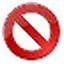
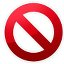
Fixed up images a little.
Moved map layout to the side.

diff --git a/src/main/webapp/templates-hidden/default.html b/src/main/webapp/templates-hidden/default.html
@@ -49,57 +49,13 @@
         background-color: #eee;
         }
 
-        .imgframe {  /* to put a frame around an img that acts like a radio button. */
+        img.imgframe {  /* to put a frame around an img that acts like a radio button. */
         border:2px solid grey;
         }
 
-        .radio input {  /*our custom radio buttons are hidden */
+        .radio input {  /* our custom radio buttons are hidden */
         display:none;
         }
-
-        /* Credit: http://www.particletree.com/features/rediscovering-the-button-element/
-        Took out font-weight as I found it too striking and color to show disable. Also took out font-family to make
-        whole page consistent. */
-        /* BUTTONS */.buttons a, .buttons button{
-        display:block;
-        float:left;
-        margin:0 7px 0 0;
-        background-color:#f5f5f5;
-        border:1px solid #dedede;
-        border-top:1px solid #eee;
-        border-left:1px solid #eee;
-        /* font-family:"Lucida Grande", Tahoma, Arial, Verdana, sans-serif; */
-        font-size:100%;
-        line-height:130%;
-        text-decoration:none;
-        /* font-weight:bold;color:#565656; */
-        cursor:pointer;
-        padding:5px 10px 6px 7px; /* Links */
-        }
-
-        .buttons button{
-        width:auto;
-        overflow:visible;
-        padding:4px 10px 3px 7px; /* IE6 */
-        }
-
-        .buttons button[type]{
-        padding:5px 10px 5px 7px; /* Firefox */
-        line-height:17px; /* Safari */
-        }
-
-        *:first-child+html button[type]{
-        padding:4px 10px 3px 7px; /* IE7 */
-        }
-
-        .buttons button img, .buttons a img{
-        margin:0 3px -3px 0 !important;
-        padding:0;
-        border:none;
-        width:16px;
-        height:16px;
-        }
-
 
         /* ]]> */
     </style>
@@ -122,6 +78,12 @@
 
         <div class="lift:Msgs?showAll=true"></div>
         <hr class="space"/>
+        <div id="storeBlock">
+            <div id="mapholder"></div><br>
+            <span id="storeNearby"></span><br><br>
+        </div>
+
+        <div id="storeData"></div>
     </div>
 
     <div class="column span-17 last" style="text-align: left">

diff --git a/src/main/webapp/index.html b/src/main/webapp/index.html
@@ -10,13 +10,9 @@
      Just bind the required div with class/function with data-lift attribute-->
 <body data-lift-content-id="main">
 <div id="main" data-lift="surround?with=default;at=content">
-    <h4>Play around with image buttons</h4>
     You will be presented with a random LCBO product available at the store, which is near you matching that
-    category.<br><br>
-    <div>
-        <div id="mapholder"></div><br>
-        <span id="storeNearby"></span><br><br>
-    </div>
+        category.
+    <br><br>
     <span data-lift="CategorySelect">
       <div id="prodCategoryContainer"><span class="options">
          <input type="radio" value="Option 1">

diff --git a/src/main/webapp/scripts/scripts.js b/src/main/webapp/scripts/scripts.js
@@ -35,8 +35,8 @@ var lcboViewer = (function() {
             success: function(data, status){
                 var latlon = new google.maps.LatLng(data.latitude, data.longitude)
                 var mapholder = document.getElementById('mapholder')
-                mapholder.style.height = '200px';
-                mapholder.style.width = '350px';
+                mapholder.style.height = '250px';
+                mapholder.style.width = '250px';
 
                 var myOptions = {
                     center:latlon,zoom:14,
